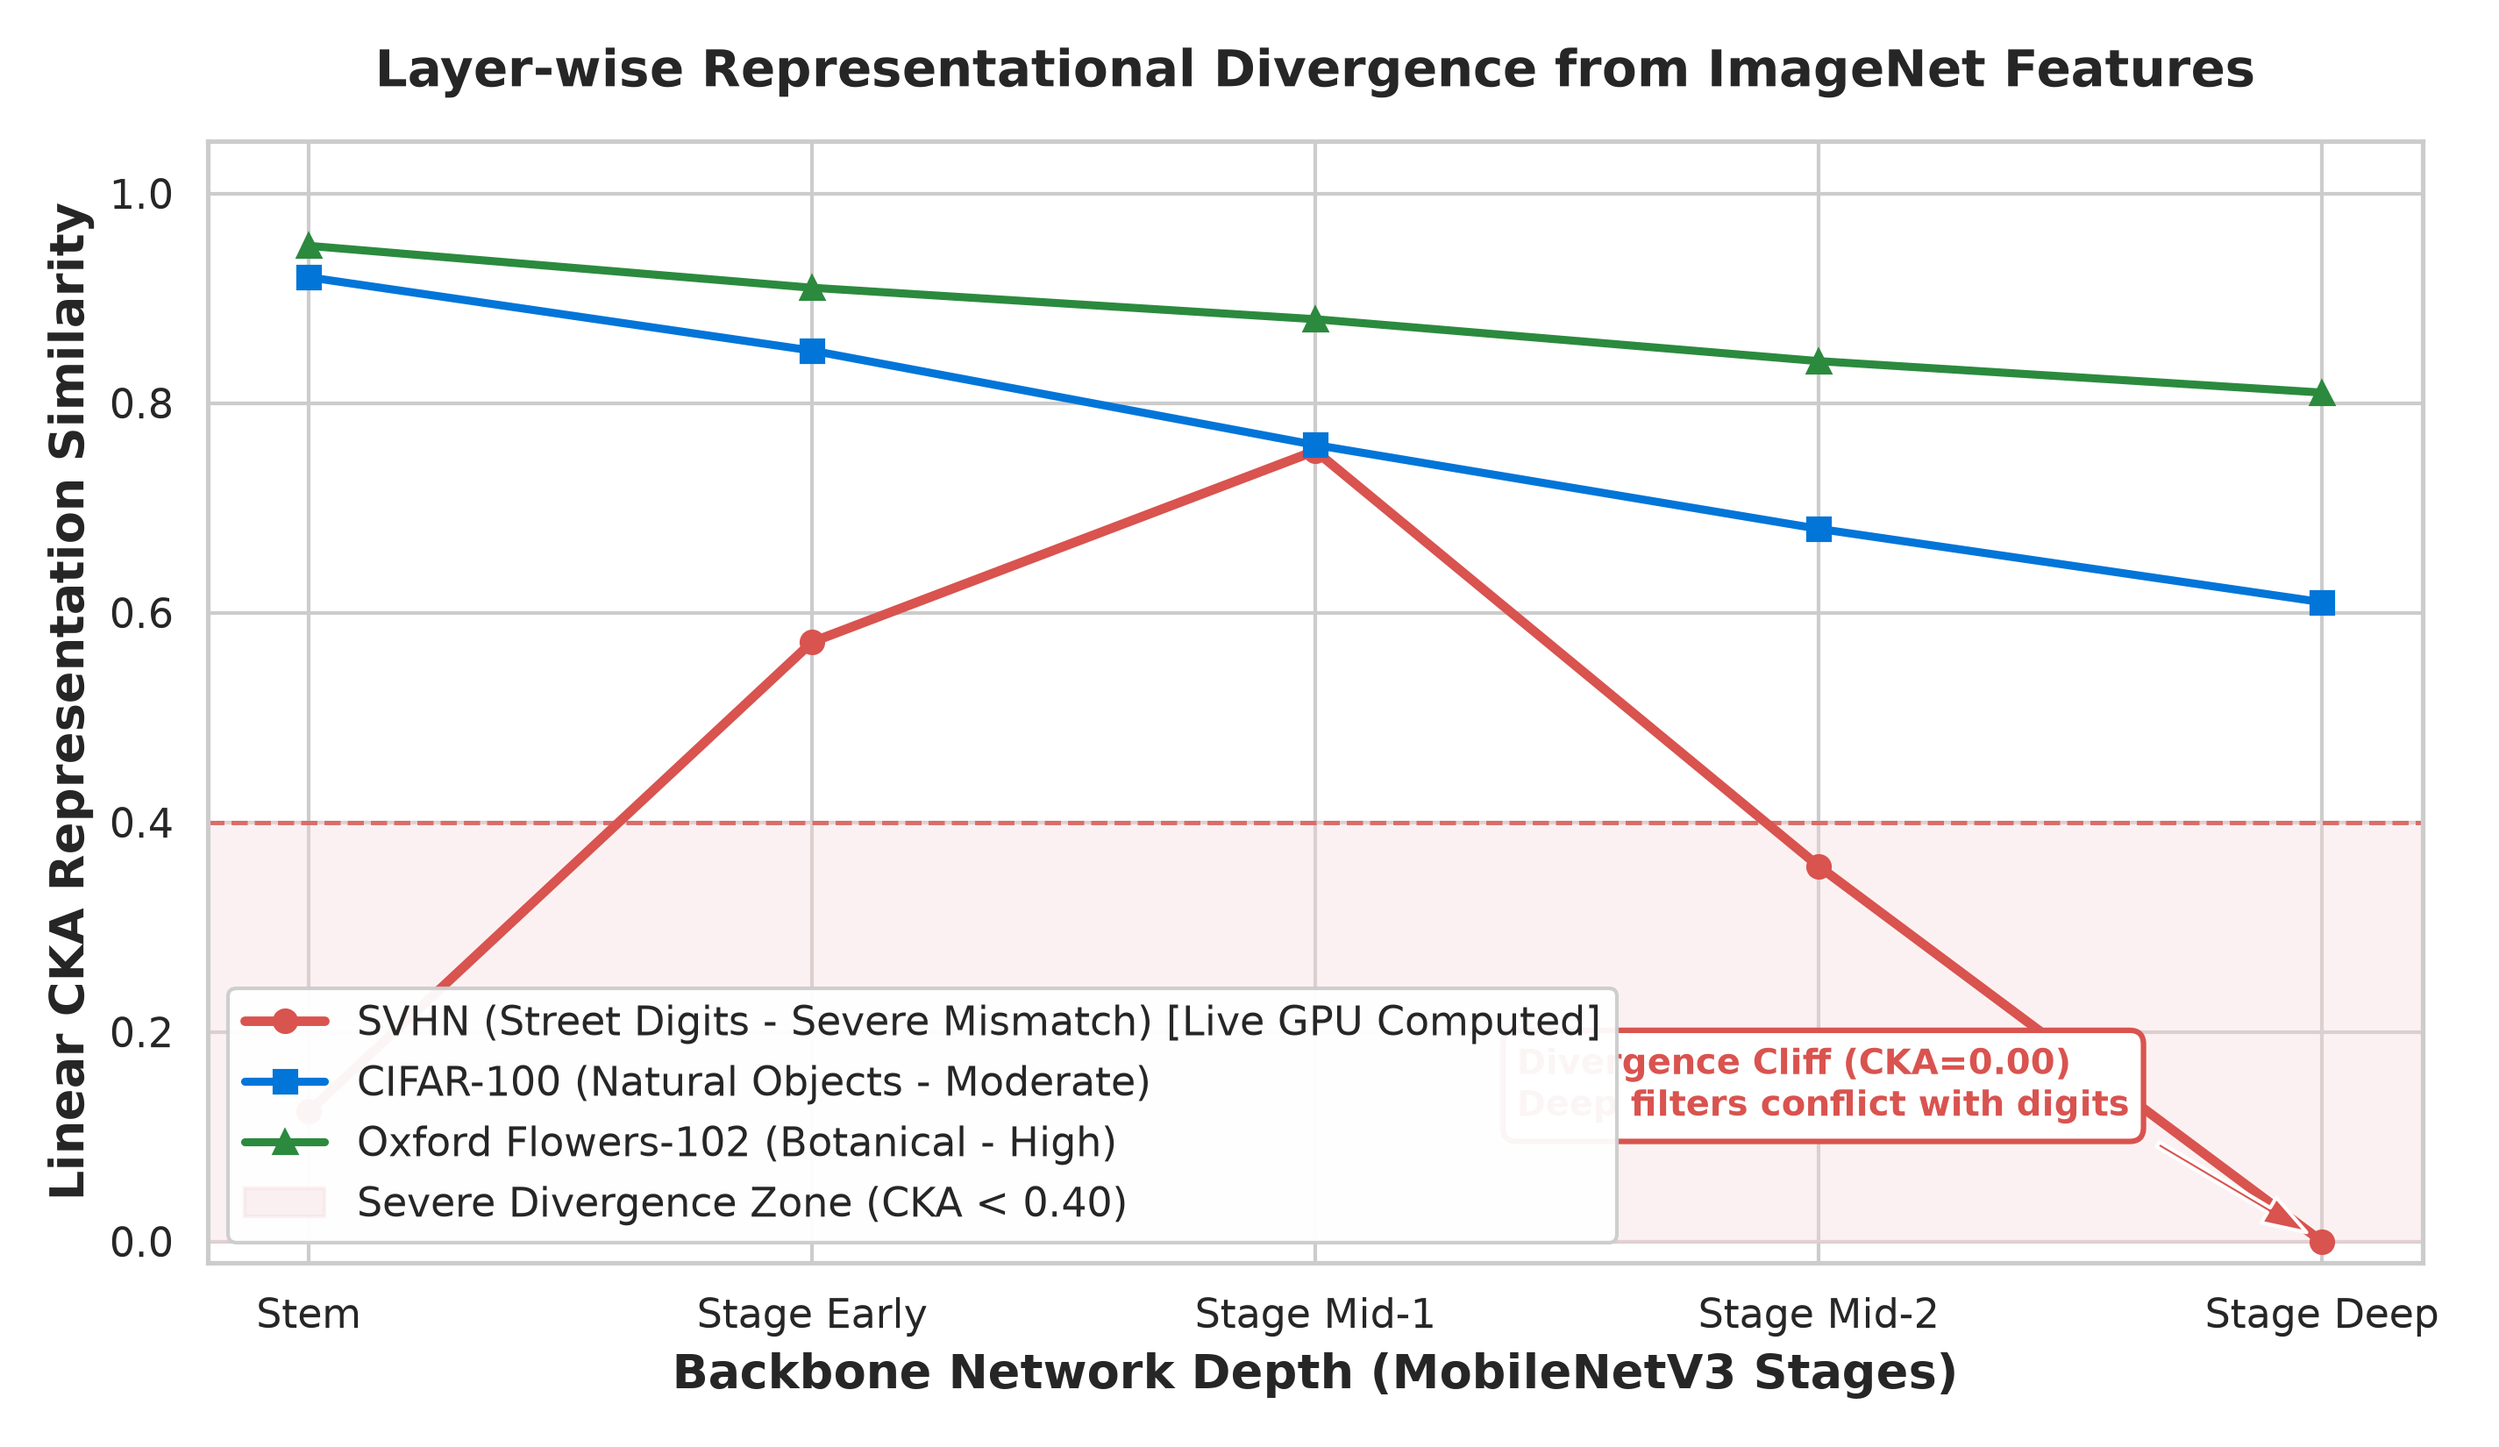
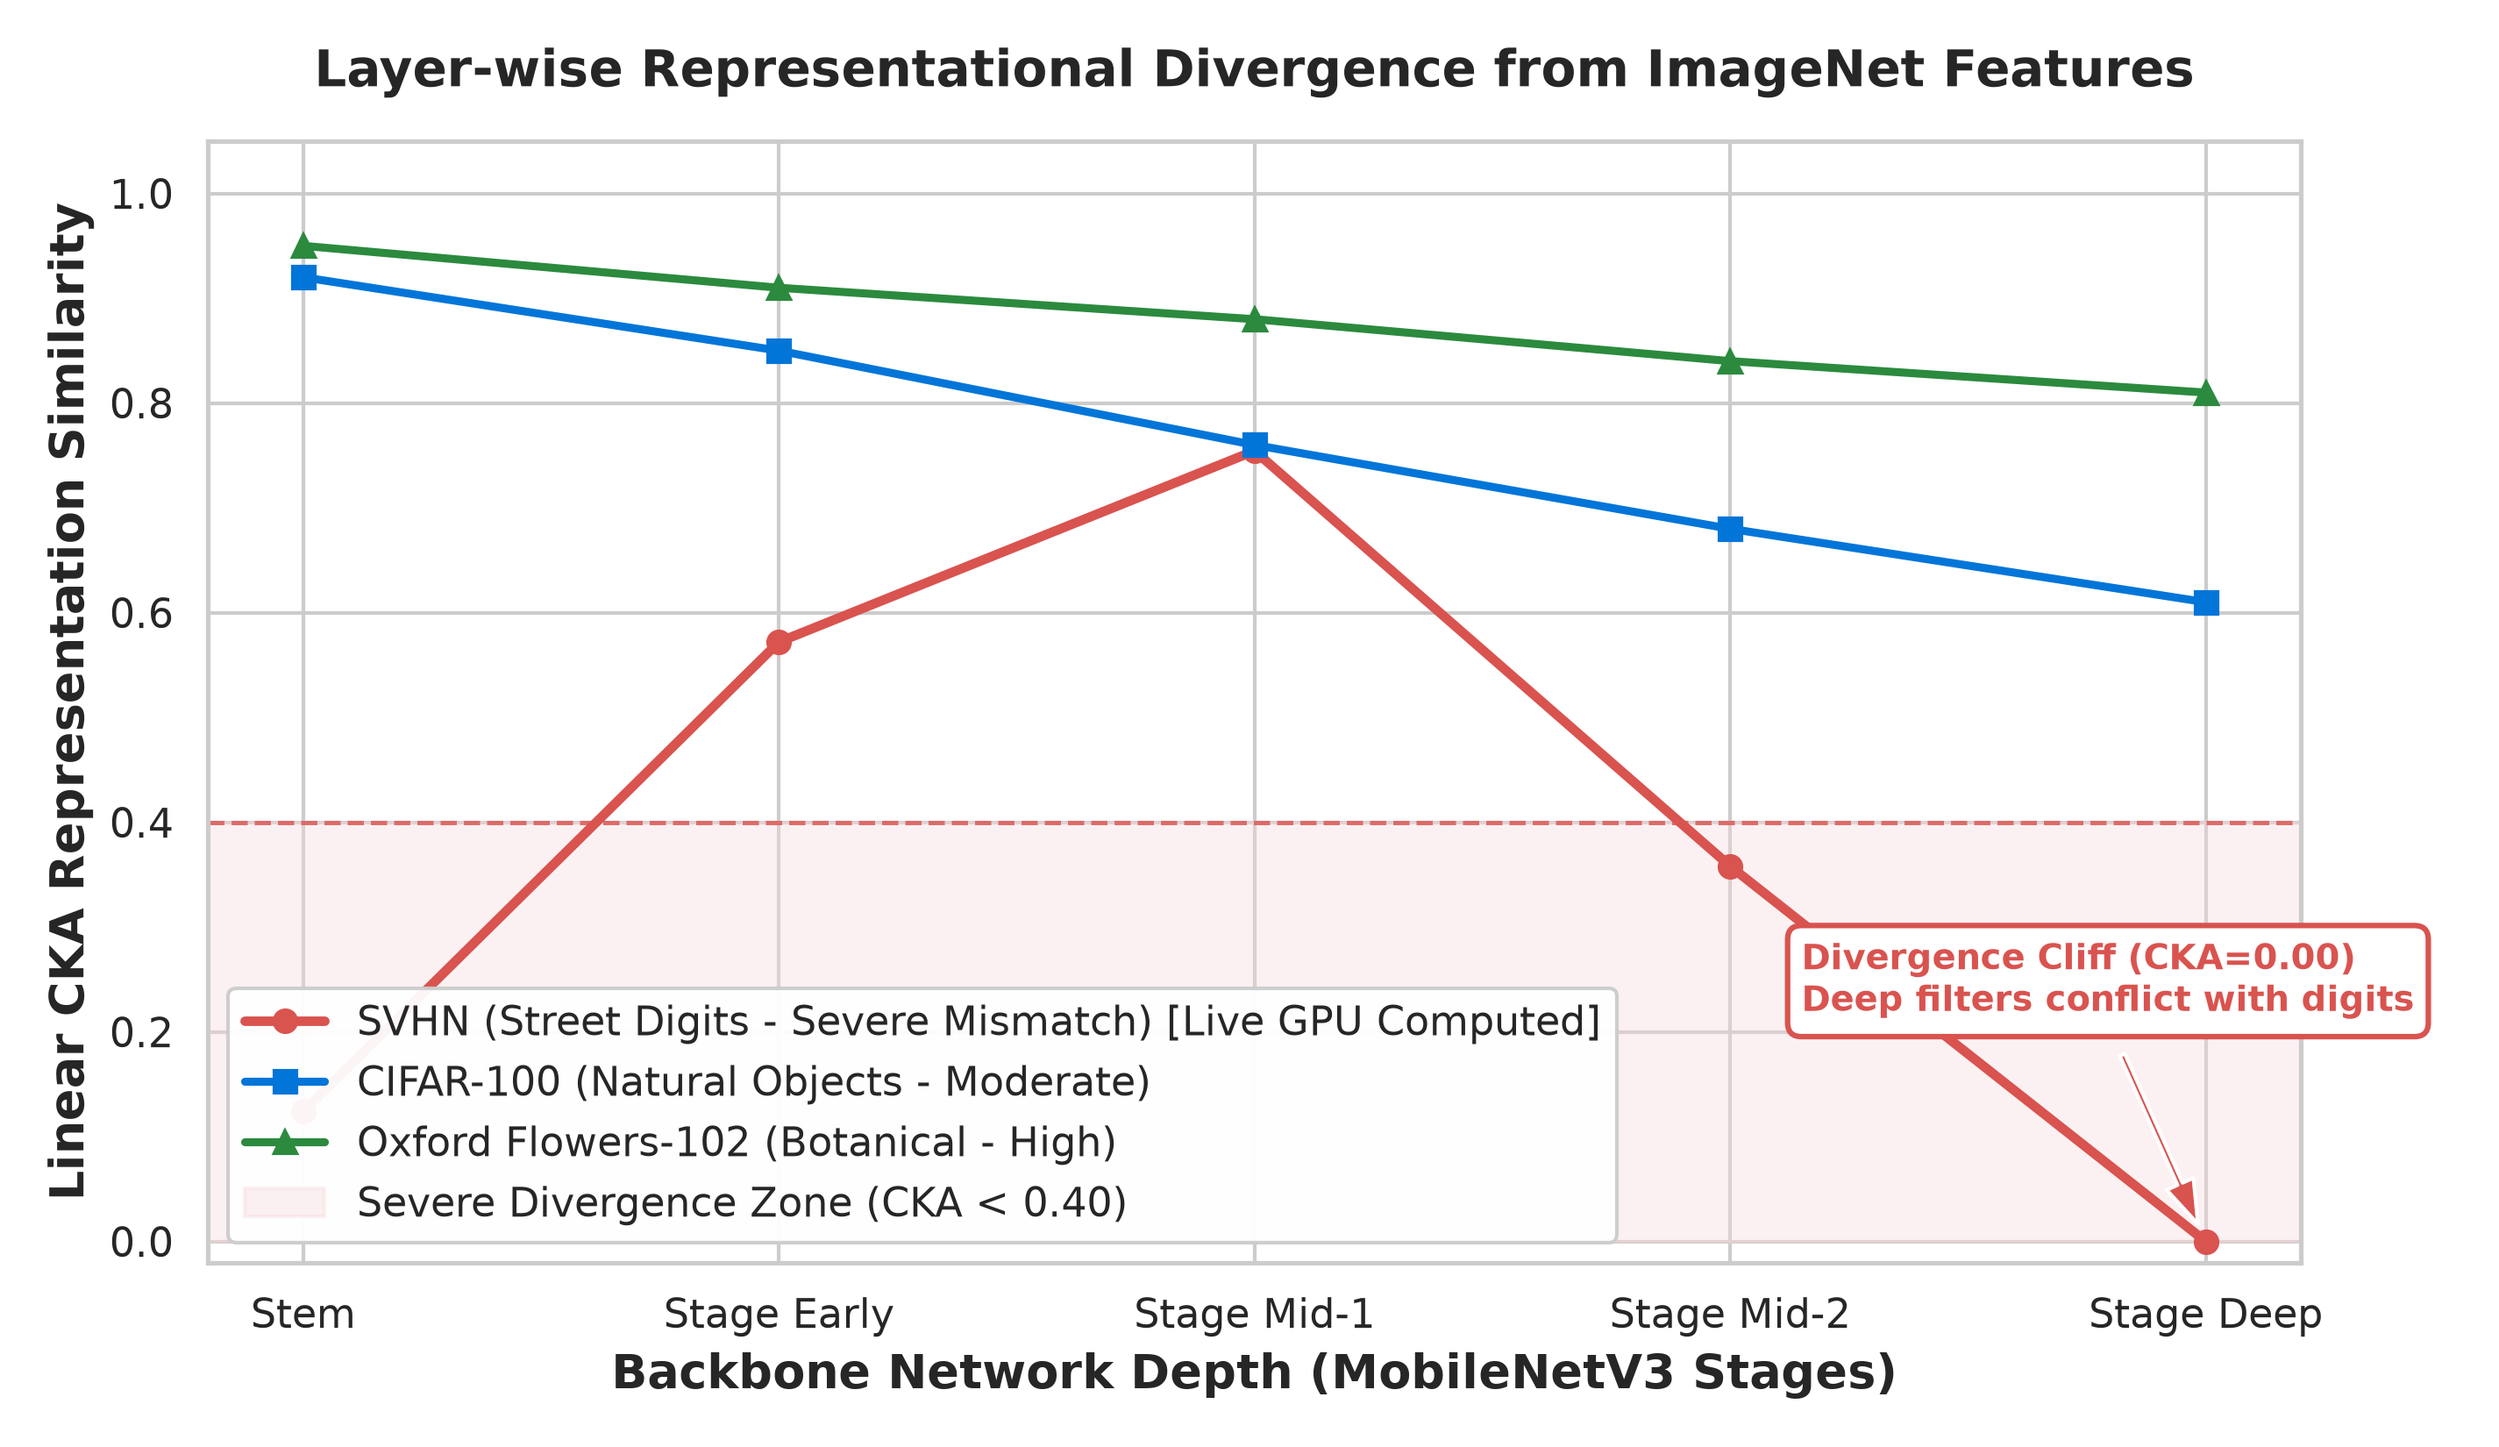
fix(visualization): refine legend and callout layout across CKA and routing plots

diff --git a/scripts/plot_results.py b/scripts/plot_results.py
@@ -182,7 +182,7 @@ def plot_layerwise_cka_curves(results_dir: str, save_path: str):
     ax.annotate(
         f"Divergence Cliff (CKA={deep_val:.2f})\nDeep filters conflict with digits",
         xy=(4, deep_val),
-        xytext=(2.4, 0.12),
+        xytext=(3.15, 0.22),
         arrowprops=dict(facecolor="#d9534f", shrink=0.08, width=1.5, headwidth=8),
         bbox=dict(boxstyle="round,pad=0.4", fc="#ffffff", ec="#d9534f", lw=1.5),
         fontsize=9.5,
@@ -297,7 +297,7 @@ def plot_transferguard_routing_profile(results_dir: str, save_path: str):
 
     subtitle_tag = "[Live GPU Trained Checkpoint]" if is_live else "[Canonical Reference]"
     ax.set_ylabel(r"Transferability Score $S_l \in [0, 1]$", weight="bold")
-    ax.set_ylim(-0.02, 1.15)
+    ax.set_ylim(-0.02, 1.25)
     ax.set_title(f"TransferGuard Dynamic Routing Profile on SVHN\n{subtitle_tag}", pad=15, weight="bold")
 
     # Annotate bars with scores and assigned actions
@@ -313,7 +313,7 @@ def plot_transferguard_routing_profile(results_dir: str, save_path: str):
             fontsize=9.5,
         )
 
-    ax.legend(loc="upper left", framealpha=0.95)
+    ax.legend(loc="upper right", framealpha=0.95)
     plt.tight_layout()
     plt.savefig(save_path, dpi=300)
     plt.close()
